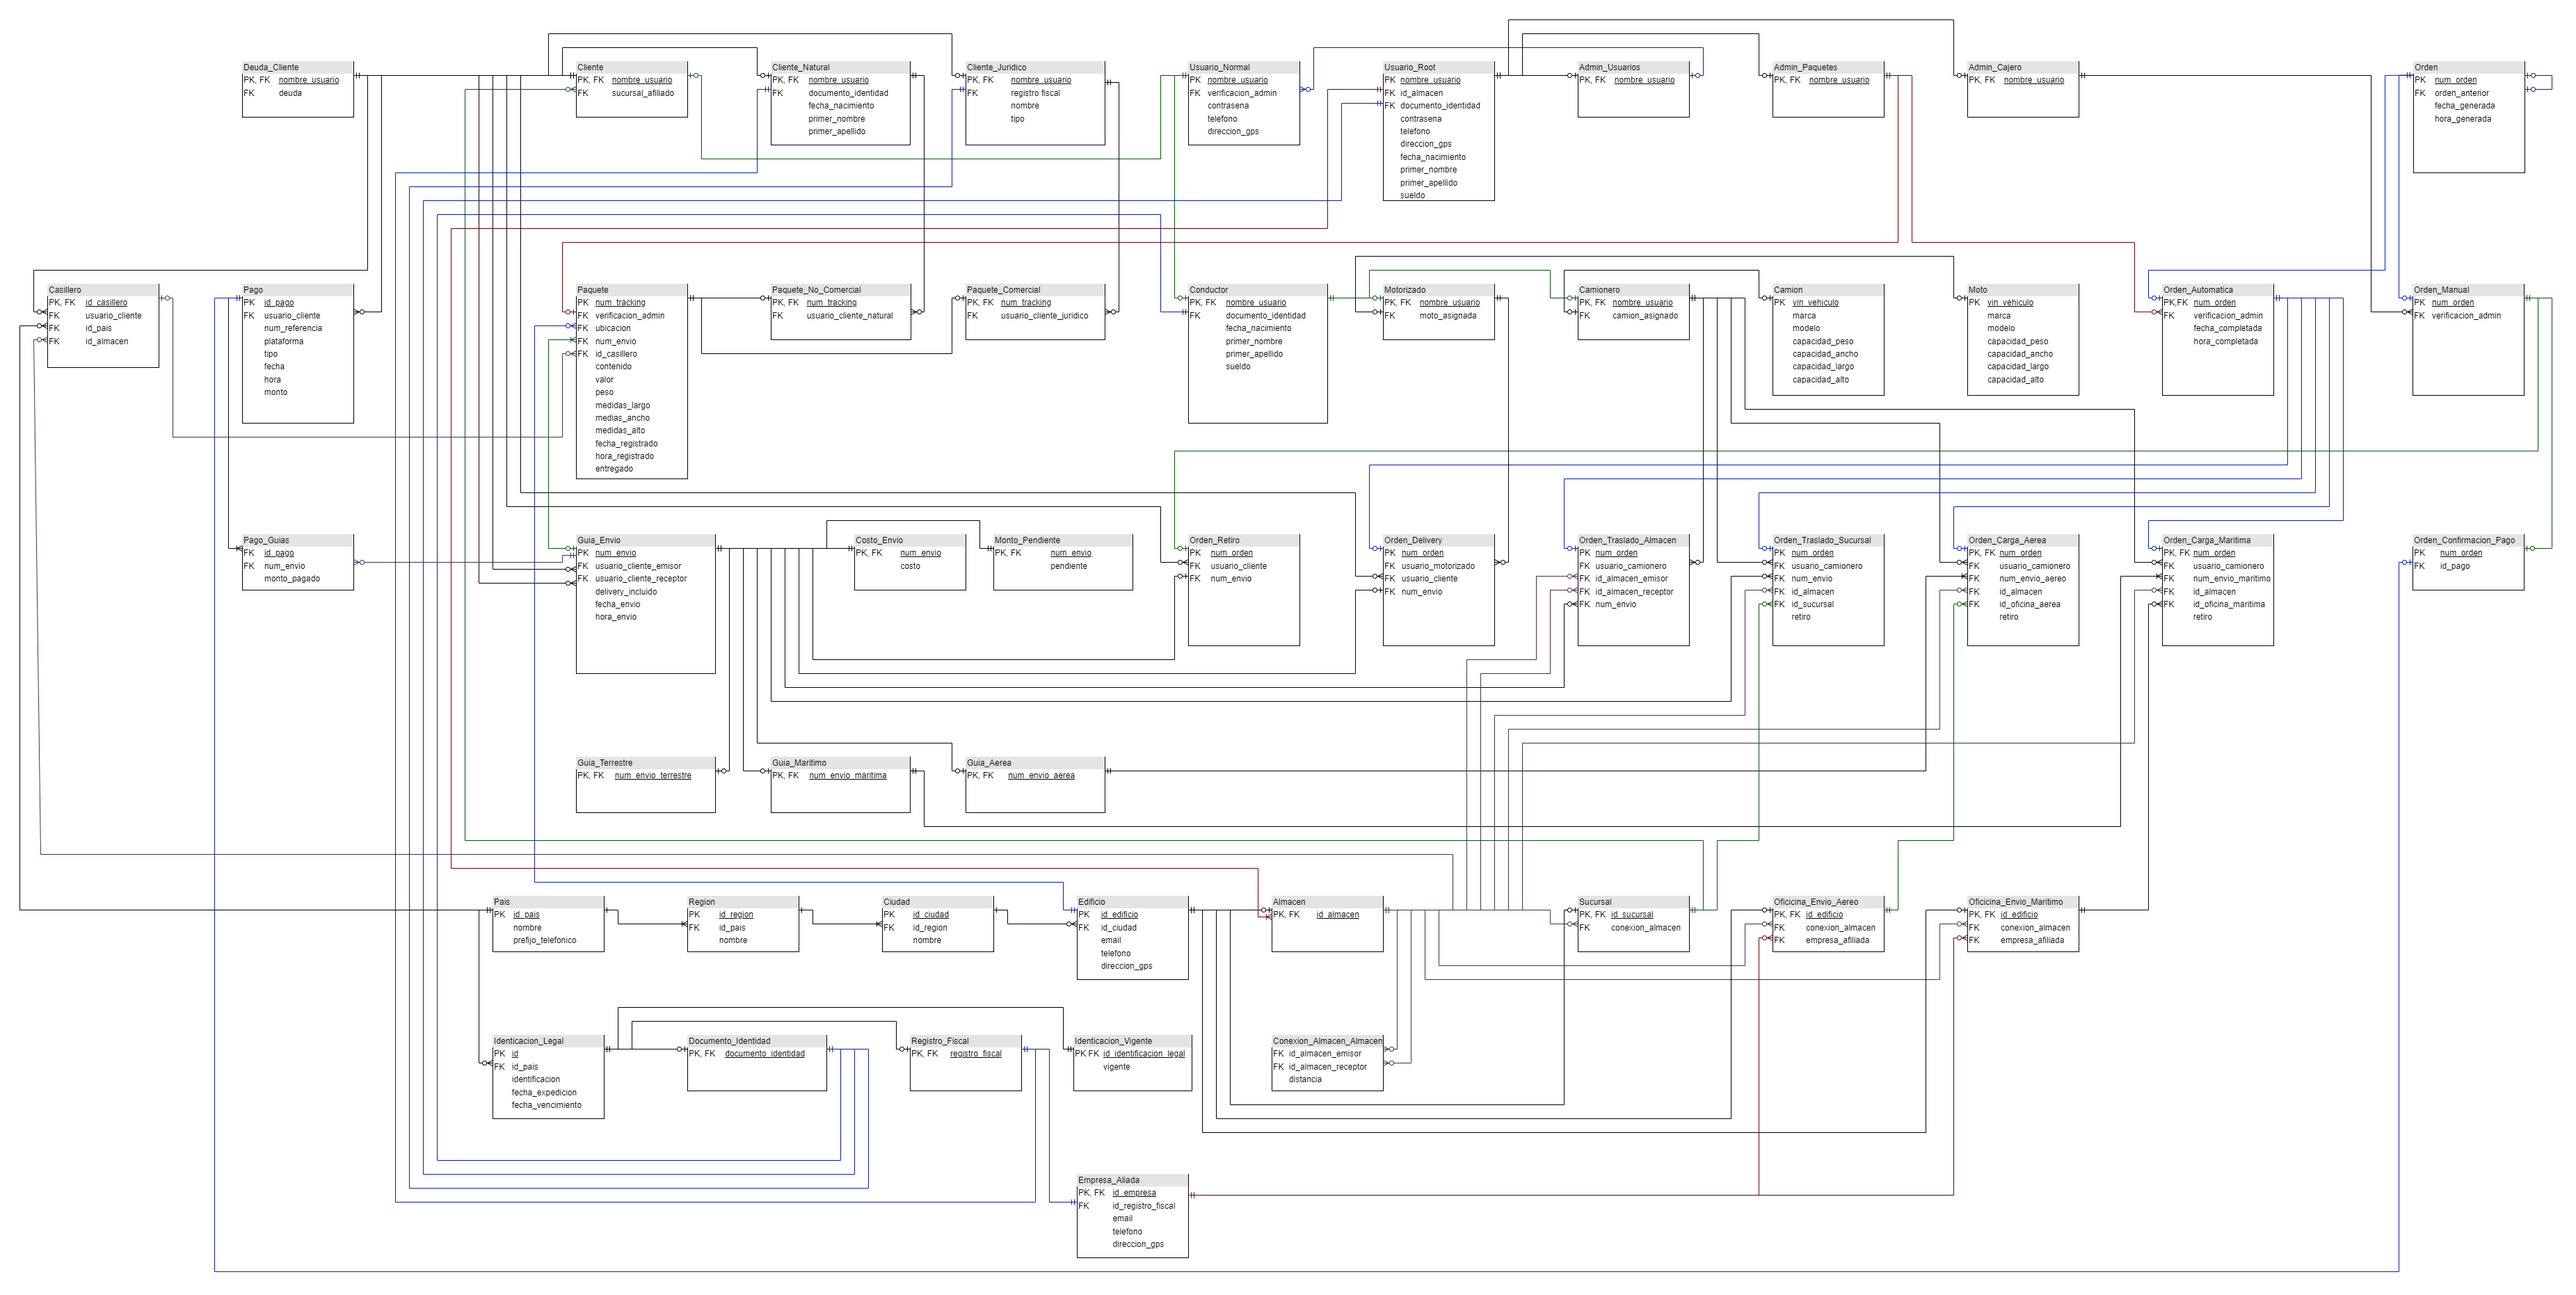
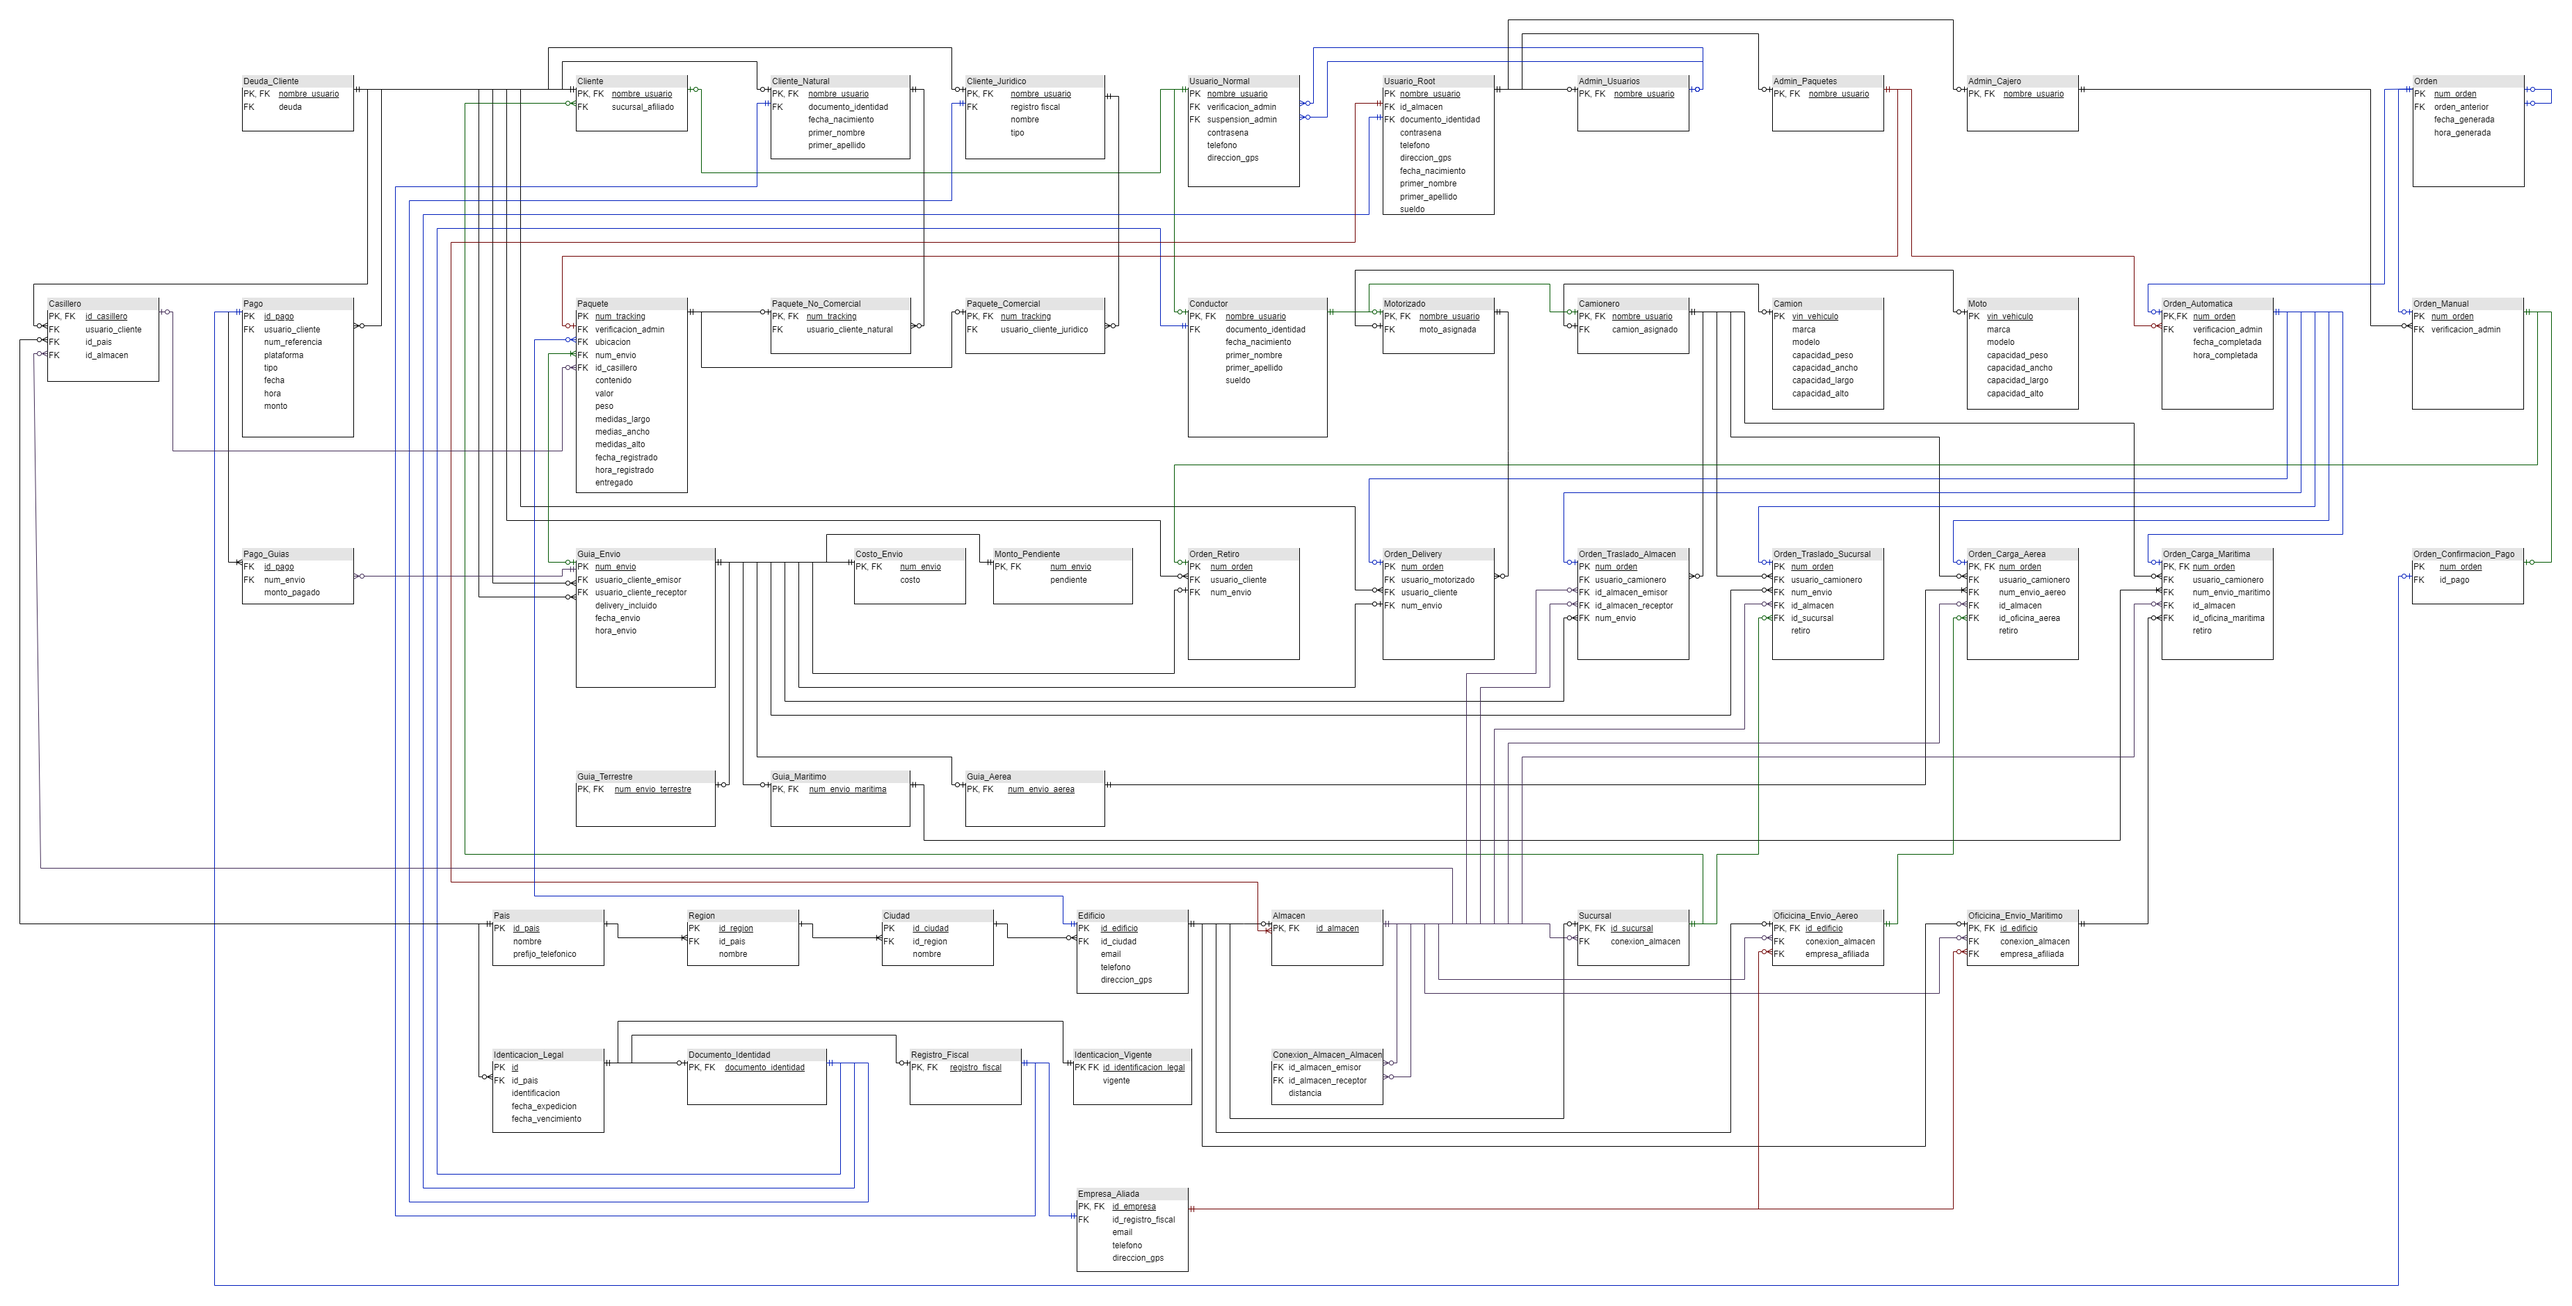
feat: Added Roadmap in Spanish for Rush Cargo Project
* Added Roadmap in Spanish for Rush Cargo Project
* Added Relationship about Account Suspension by User Administrators to Rush Cargo Model

diff --git a/README.md b/README.md
@@ -2,6 +2,7 @@ This repository contains the source code and documentation for Rush Cargo Applic
 
 ## Table of Contents
 - [About Rush Cargo](#about-rush-cargo)
+- [Documents](#documents)
   - [Development Team](#development-team)
 - [Requirements](#requirements)
   - [Week 1](#week-1)
@@ -17,11 +18,14 @@ Aside from this, Rush Cargo also has some interesting easter eggs:
 
 2. Cargo: This word is also a reference to the Rust ecosystem, this time to the Rust package manager.
 
+## Documents
+- Roadmap <a href="https://docs.google.com/document/d/1MupYuTTxXraIwLAzVZR1WUXree8AxoY6v4uSUJRZCWk/edit?usp=sharing">(Spanish Version)</a>.
+
 ### Development Team
-- Ramón Álvarez <a href="https://github.com/ralvarezdev">(ralvarezdev)</a>. Database Modeler and Programmer
-- Rebecca Bracho <a href="https://github.com/Beckarby">(Beckarby)</a>. Database Modeler
-- Jesús Meléndez <a href="https://github.com/JeJaMel">(JeJaMel)</a>. Database Administrator
-- Javier Pérez <a href="https://github.com/Kaucrow">(Kaucrow)</a>. Programmer
+- Ramón Álvarez <a href="https://github.com/ralvarezdev">(ralvarezdev)</a>. Database Modeler and Programmer.
+- Rebecca Bracho <a href="https://github.com/Beckarby">(Beckarby)</a>. Database Modeler.
+- Jesús Meléndez <a href="https://github.com/JeJaMel">(JeJaMel)</a>. Database Administrator.
+- Javier Pérez <a href="https://github.com/Kaucrow">(Kaucrow)</a>. Programmer.
 
 ## Requirements
 
